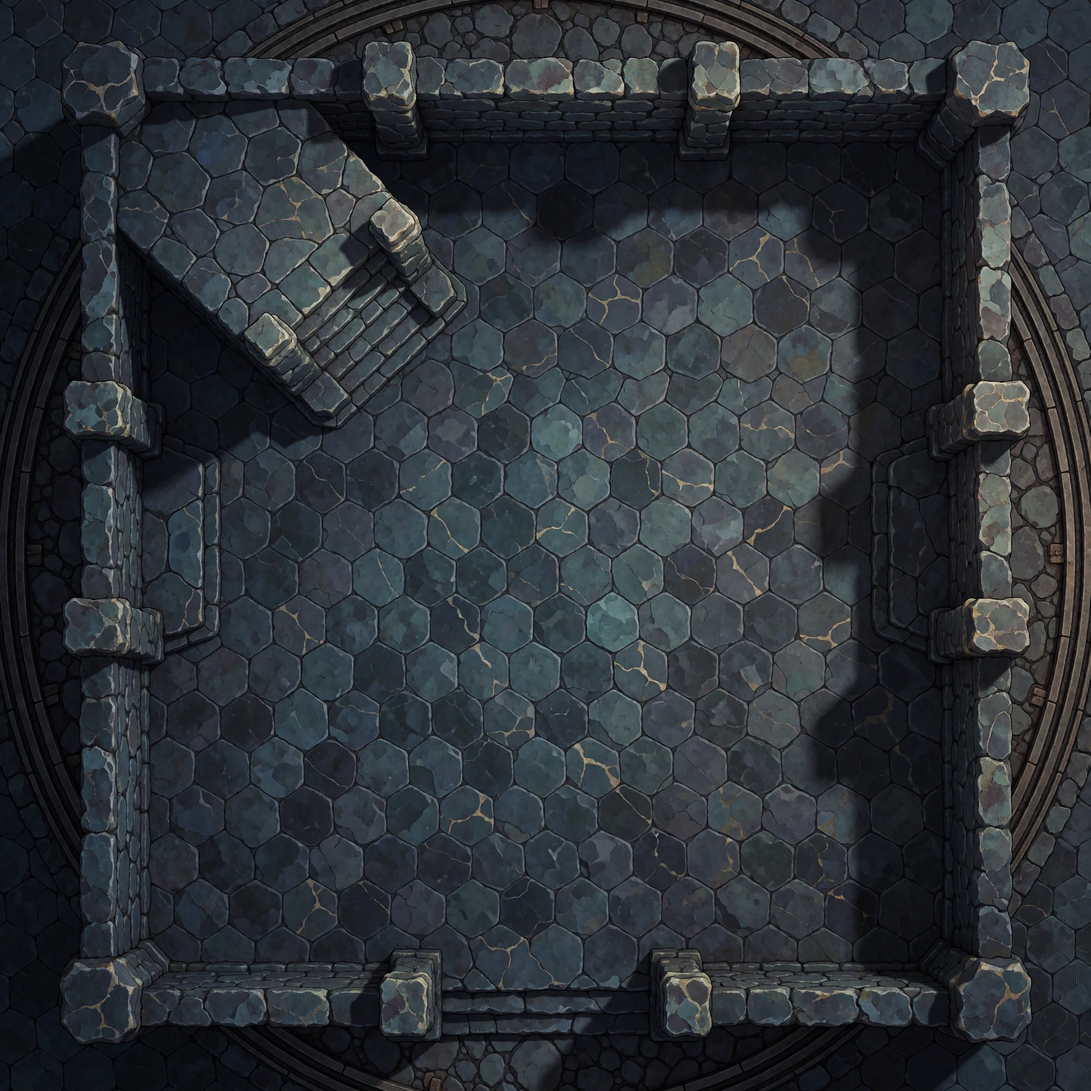
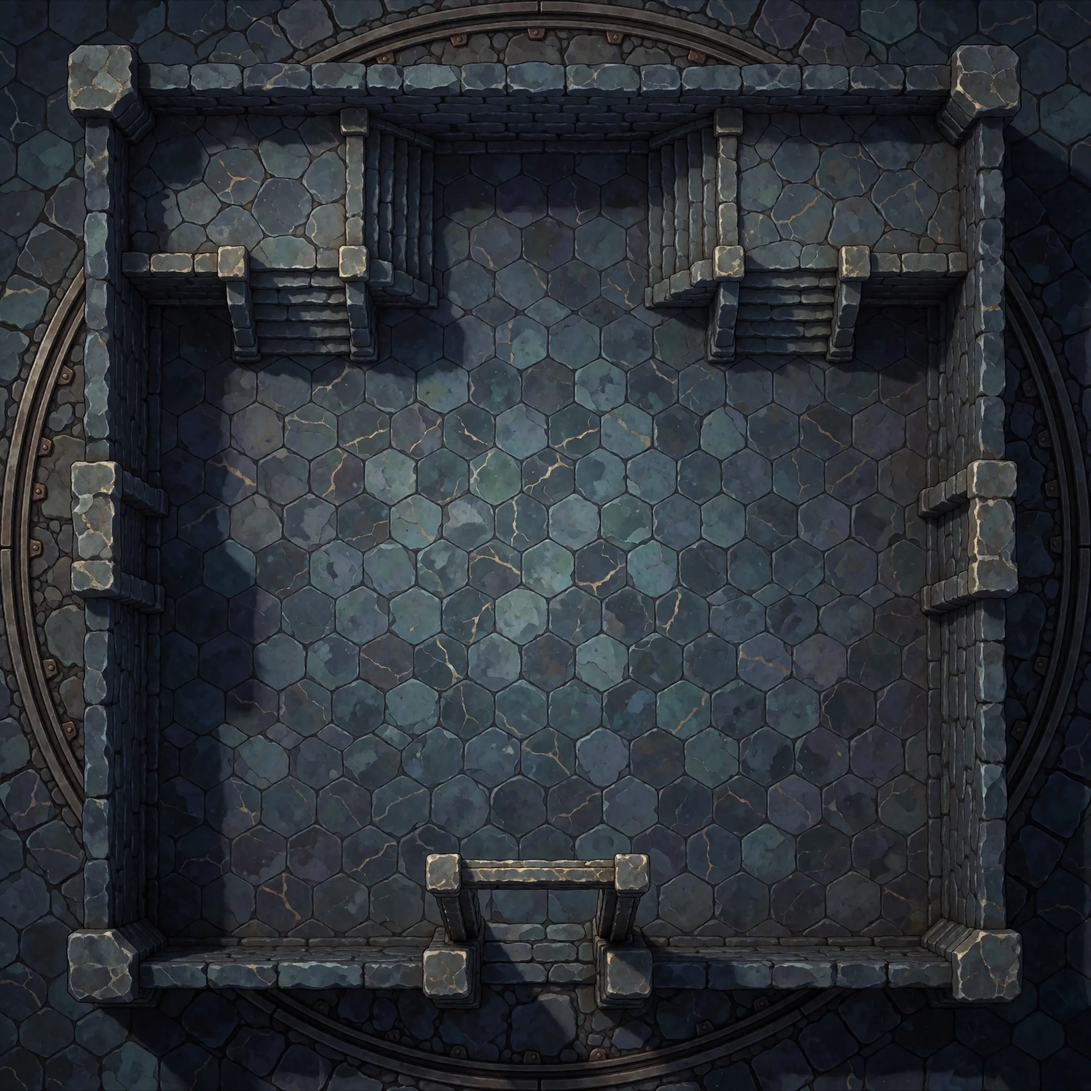
Record battle map decisions: neutral portal names, boss phase art, entrances and room movement rules; add repainted arenas

diff --git a/docs/battle-map-review.md b/docs/battle-map-review.md
@@ -14,8 +14,8 @@ make), **you** (art or a decision), or **your call** (either works; pick one).
 
 ## Must fix
 
-1. **"Sonder" in a portal name (you decide the new name).** The Gatewright's phase 2 portal is called "Portal to Sonder's negative space". Sonder must never appear in the app (bible: Content safety). Suggestion: "Portal to negative space", or just "Void portal". Also check whether "Portal to the Archive" gives anything away; if so, call it "West portal" or similar.
-2. **The Gatewright phase 1 arena (you, repaint).** It's painted as a 4 × 4 grid of walled cells full of furniture, but the boss is designed around open floor (Builder's Strike walls, Grand Reconstruction). The boss's start square and the south entrance both sit on partition walls. It needs an open-floor repaint.
+1. **Spoilers in the Gatewright's portal names (decided: rename all three).** "Portal to Sonder's negative space" names Sonder, and "Portal to paradise" names the DM-only truth that the Basalts is a fractured stridegate to paradise. *This review first caught only the Sonder one; the DM caught the paradise one.* New names: **Gilded portal**, **Void portal** and **Archive portal**. "Archive" already ships in a loot item ("a destination the Archive has no record of"), so it gives nothing new away. For the record, the lore checker (`scripts/check-data.ts`) bans "sonder" everywhere and "paradise" outside approved names, so it would have stopped both at build time once the data moved into the app.
+2. **The Gatewright phase 1 arena (repainted 2026-11-11).** It was a 4 × 4 grid of walled cells; it's been repainted as open floor. Re-checking the art against the layout.
 
 ## Art doesn't match the layout
 
@@ -31,9 +31,9 @@ My suggestion: **treat the painting as the truth for walls and fixed features, a
 | Chorus of Unseen Angles | The south edge is a wall strip; the central 2 × 2 column isn't painted | **me**: the entrance moves up a row; the column stays an object (needs `tall-column` art, below) |
 | Inverted Reliquary | Plinths painted about 2.5 × 2.5 squares; the data has 1 × 1 | **me**: plinths become 2 × 2 in the data and use the painting (no plinth art needed) |
 | Glass Hydra | Floor tiles don't line up with 5 ft squares; no distinct mirror panels painted | **me**: nothing to change, the mirror panels are objects already |
-| Kaelen and Vyr | One raised ledge with stairs painted in the NW corner; the data has ledges in both back corners | **your call**: repaint a second ledge NE, or I change the data to the one painted ledge |
-| Lattice Spinner | 8 columns painted into the floor; the data has 6 column objects, and Loom Rotation has to move them, which painted columns can't do | **your call**: repaint without columns (recommended, then they're movable objects), or I use the 8 painted columns and the DM narrates the rotation |
-| Choir of the Hollow Column | A big organ on a central dais is painted in the middle; the data calls the centre open and safest | **your call**: repaint without it, or keep it as a big central obstacle and I update the notes |
+| Kaelen and Vyr | One raised ledge with stairs painted in the NW corner; the data has ledges in both back corners | **repainted 2026-11-11**, re-checking |
+| Lattice Spinner | 8 columns painted into the floor; the data has 6 column objects, and Loom Rotation has to move them | **repainted 2026-11-11** without columns, re-checking |
+| Choir of the Hollow Column | A big organ on a central dais is painted in the middle; the data calls the centre open and safest | **repainted 2026-11-11**, re-checking |
 
 **Entrances vary per arena** (e.g. the Chorus and the Gatewright phase 1). I'll give each arena its own entrance in the data instead of one shared one.
 
@@ -59,17 +59,18 @@ Rooms roll 1 to 4 exits, plus the way the party came in. Only **hex-hall** and *
 have painted doorways (4 each). Column-forest, honeycomb, split-chamber,
 switchback and twisted-vault have none, and **tiered-stair** has no north or south wall.
 
-**Suggested default (me):** the party always enters from the south edge, and the app draws
-doorway markers on the edges using the existing exit icons, placed on open floor. Nothing
-to repaint. On hex-hall and ring, the markers sit in the painted openings.
+**Decided:** the party enters from the south edge, **except in the split chamber, where it
+enters from the east** (the chasm runs north to south). The app draws doorway markers on
+the edges using the existing exit icons, placed on open floor. Nothing to repaint. On
+hex-hall and ring, the markers sit in the painted openings.
 
-**Your call:**
-- In tiered-stair, can creatures climb between tiers freely, or only at the middle recesses?
-- In split-chamber, is the chasm a jump (and how far) or impassable away from the bridge?
+**Decided, and added to the bible (Size, elevation, exits and lighting):**
+- **Tiered stair:** tiers are 10 ft apart. Climbing up a tier costs extra movement (5 ft of climbing costs 10 ft of movement); the middle recesses work as stairs at normal cost. Climbing down is free.
+- **Split chamber:** the chasm is 10 ft across. A running long jump clears it with Strength 10 or more; anyone who falls short falls in. The bridge stays worth fighting over.
 
 ## Data decisions
 
-1. **Boss part names (your call).** Your file renames parts: "Pipe Cluster", "Survey Golem", "Basalt Hound" (the Herd's hounds) and "Unseen Angle" (the Chorus members). Fine by me, except **"Basalt Hound" clashes with the roster creature of the same name**, which will confuse the DM screen. Suggest "Survey Hound", or keep "Hound". The art file names stay as they are either way.
+1. **Boss part names (decided).** "Pipe Cluster", "Survey Golem", **"Survey Hound"** (not "Basalt Hound", which clashes with the roster creature) and "Unseen Angle". The art file names stay as they are.
 2. **Kaelen and Vyr as one token (me).** Your file makes them one token that swaps art with the active form. That works with the art you already have (`kaelen-and-vyr-kaelen`, `kaelen-and-vyr-vyr`). I'll add a "swap form" button for the DM. Each form keeps its own AC and ability profile.
 3. **Walls don't block movement (default).** The app won't stop tokens at walls. Walls are only what's painted, and the DM judges. That keeps the very different wall thicknesses across the art from mattering.
 

diff --git a/docs/battle-map-plan.md b/docs/battle-map-plan.md
@@ -26,6 +26,35 @@ Status: **plan, not built**. Each phase below is its own branch and PR.
 - **Summons and companions:** characters marked "has a summon" get one extra token they control.
 - **Token size:** Medium takes 1 square, Large 2 × 2, Huge 3 × 3, Gargantuan 4 × 4.
 
+## Boss phase art
+
+Bosses with a second phase change it at **Bloodied**, which the app already tracks, either
+automatically from HP or by the DM's Bloodied button. One switch drives everything below.
+
+| Where | Phase 1 | Phase 2 (Bloodied) | Status |
+| --- | --- | --- | --- |
+| DM boss block | Both portraits side by side, the current phase outlined | Same, outline moves to phase 2 | Built |
+| Player room screen | Phase 1 portrait | Switches to the phase 2 portrait, plus a Bloodied tag | Built |
+| Map token | Round crop of the phase 1 portrait | Swaps to the phase 2 portrait | Phase 4 |
+| Arena | Phase 1 arena | **The Husk and the Gatewright** swap to their phase 2 arena. Phase 1 objects that don't belong in phase 2 hide (the Husk's columns and braziers), and phase 2 objects appear (the Gatewright's portals) | Phase 4 |
+| Phase reveal (proposed) | | Players get a one-time full-width reveal of the phase 2 portrait with its name, e.g. "The Gate Opens". It closes with a tap or after a few seconds | Phase 4 |
+
+- **Which bosses:** Ophaniel, the Sun-Eater's Husk and the Gatewright have phase 2 portraits; the Husk and the Gatewright also have phase 2 arenas. Other bosses with Bloodied effects (e.g. the Tessellated Warden's Lens Flare) keep one portrait.
+- **Kaelen and Vyr** use the same token-swap idea for their forms. The DM gets a "Swap form" button, and the token switches between the Kaelen and Vyr art. Each form keeps its own AC and ability profile.
+- **Going back:** if the DM turns Bloodied off, everything returns to phase 1.
+
+## Portals in the Gatewright's phase 2 arena
+
+- **Painted portals stay visible.** The three portals painted into the phase 2 arena are fixed features. The app draws only a thin outline and a name label on them, never the portal object image, so players can see the three different gates.
+- **Names (no spoilers):** Gilded portal, Void portal and Archive portal.
+- **The `portal` object** is for portals the DM places somewhere else. If the Gatewright's Shift Portal moves one, it appears at the new spot as the portal object, and its painted spot gets a dimmed "closed" outline.
+
+## Entrances
+
+- The party enters from the south edge, **except in the split chamber, where it enters from the east** (the chasm runs north to south).
+- Each boss arena gets its own entrance in the data, matched to its painting.
+- Room movement rules for the tiered stair and split chamber are in the bible (Size, elevation, exits and lighting).
+
 ## Phases
 
 1. **Map foundation (DM only).**

diff --git a/docs/design-bible.md b/docs/design-bible.md
@@ -1147,6 +1147,9 @@ The generator builds each room from a shape, a size, an elevation, two or three 
 - **Elevation (d4):** 1, flat; 2, one 10 ft ledge; 3, columns of varied heights to climb; 4, a 20 ft pit.
 - **Exits (d3):** 1 to 3 doorways. Only one leads on; the others loop back, like every maze of Thils. Spotting the true exit takes a Survival check (DC 10 + floor number), and Ulma's Thread finds it automatically.
 - **Lighting (d6):** 1 to 3, dim seam-light; 4, bright rune-light; 5, flickering, which alternates dim and dark each round; 6, patches of magical darkness. On floor 4, a 5 or 6 becomes golden light from below instead.
+- **Entrance:** the party enters from the south edge of the battle map, except in a Split chamber, where the chasm runs north to south and the party enters from the east edge.
+- **Tiered stair:** each tier is 10 ft above the one below. Climbing up a tier costs extra movement (5 ft of climbing costs 10 ft of movement); the middle recesses work as stairs at normal cost. Climbing down a tier costs nothing extra.
+- **Split chamber:** the chasm is 10 ft across. A running long jump clears it with Strength 10 or more; anyone who comes up short falls in. The bridge is the only other way across, which keeps it worth fighting over.
 
 ### Terrain features (d20)
 
